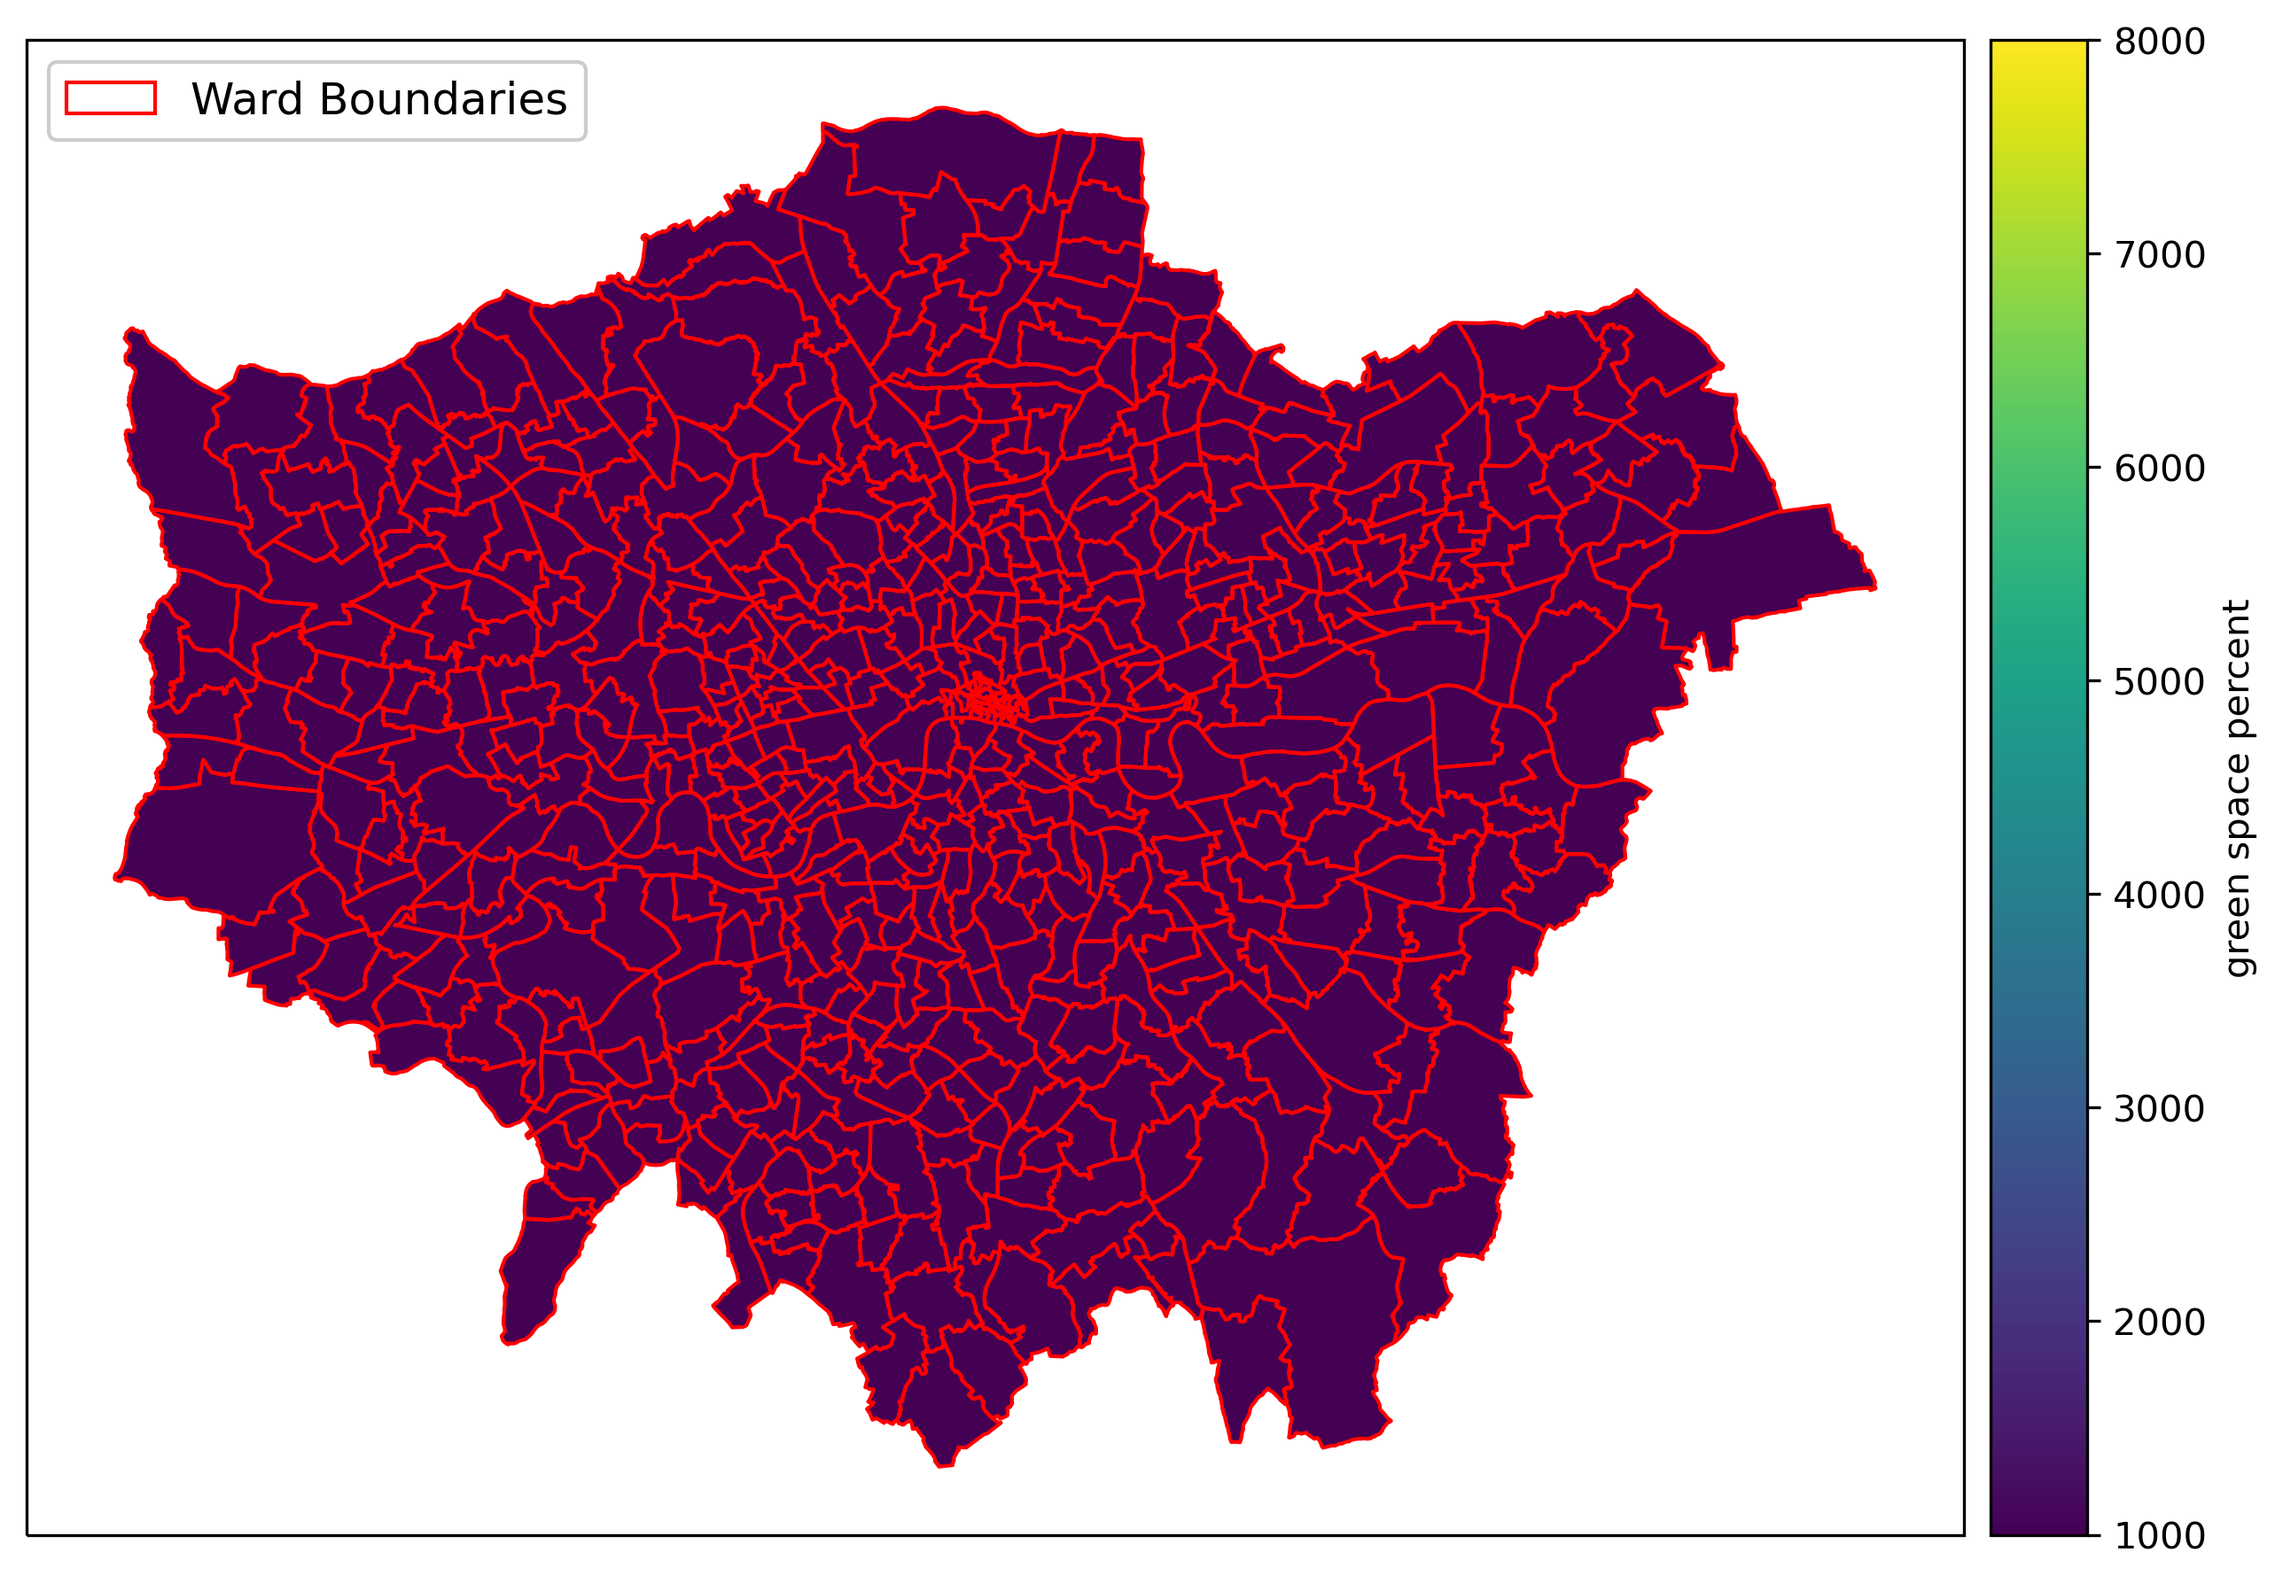
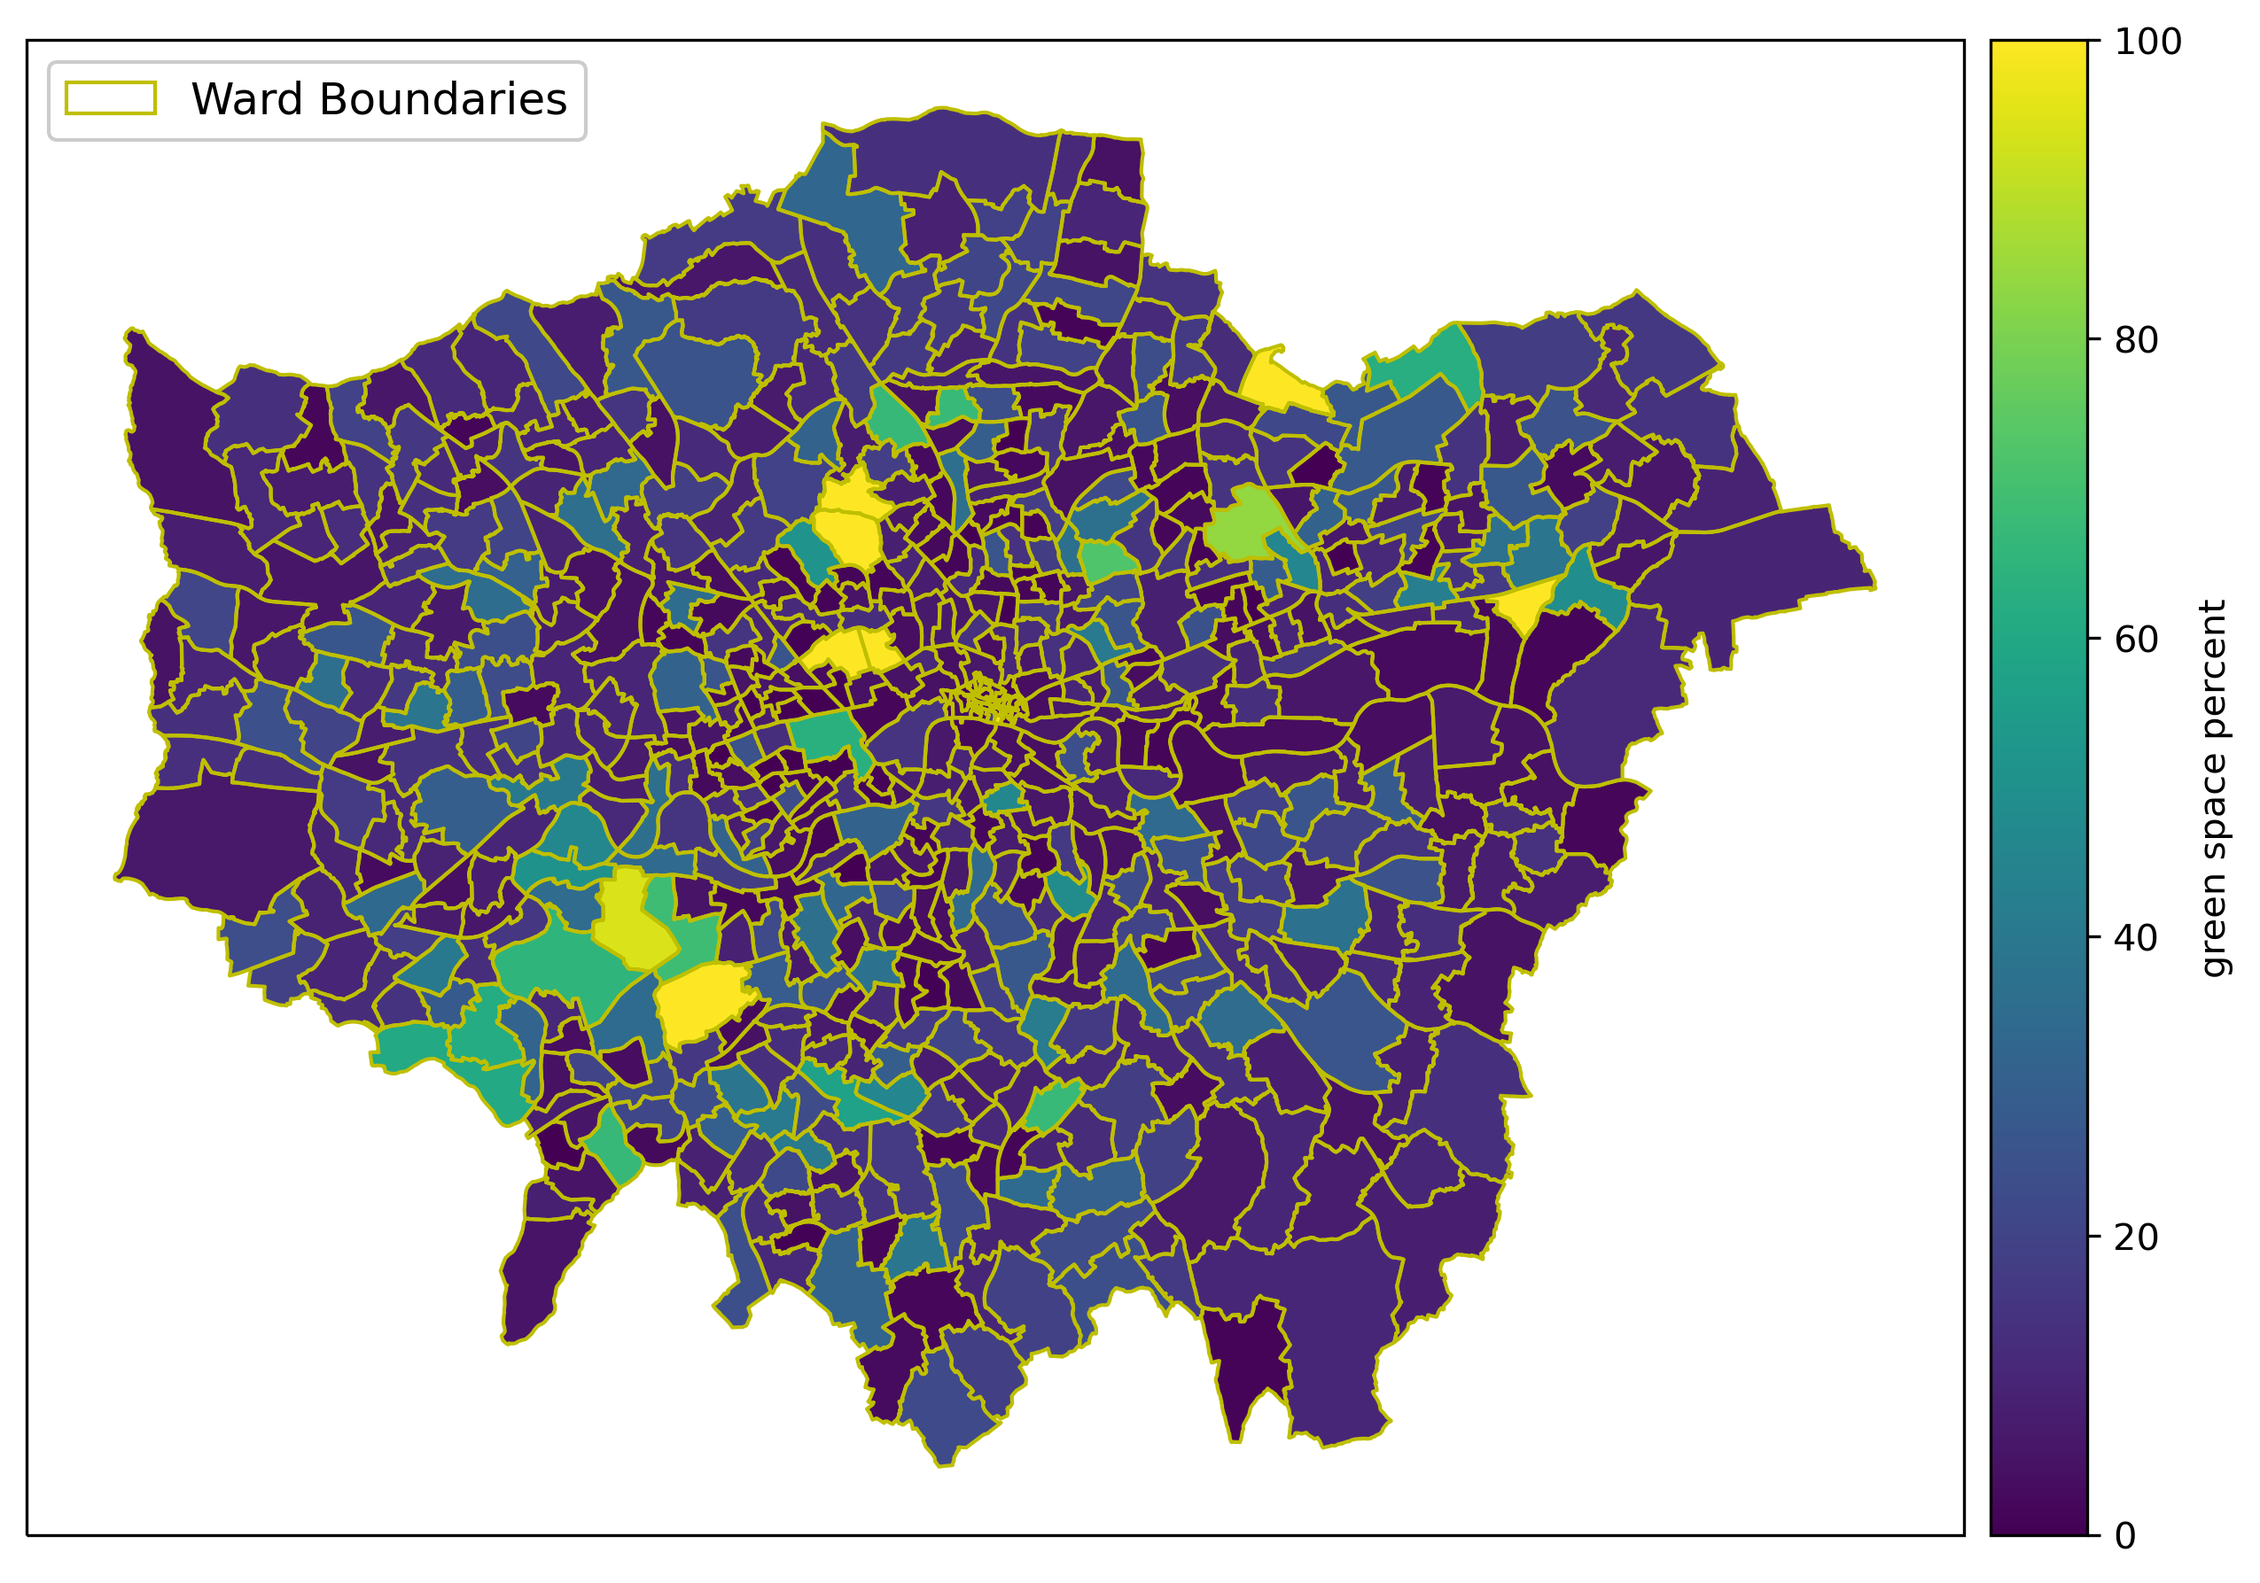
Mapping code working

diff --git a/Project Code.py b/Project Code.py
@@ -60,7 +60,7 @@ joined = wards.set_index('NAME').join(gs_sum.rename('Total GS Area'))
 
 # 3.5 Calculate percentage of green space in each ward
 for i, row in joined.iterrows():
-    joined.loc[i, 'gs_percent'] = (row['Total GS Area'] / row['area_calc'])
+    joined.loc[i, 'gs_percent'] = ((row['Total GS Area'] / row['area_calc']) * 100)
 
 print(joined.head(10))
 
@@ -105,10 +105,10 @@ cax = divider.append_axes("right", size="5%", pad=0.1, axes_class=plt.Axes)
 gs_plot = joined.plot(column='gs_percent', ax=ax, vmin=0, vmax=100, cmap='viridis',
                        legend=True, cax=cax, legend_kwds={'label': 'green space percent'})
 
-ward_outlines = ShapelyFeature(joined['geometry'], myCRS, edgecolor='r', facecolor='none')
+ward_outlines = ShapelyFeature(joined['geometry'], myCRS, edgecolor='y', facecolor='none')
 
 ax.add_feature(ward_outlines)
-county_handles = generate_handles([''], ['none'], edge='r')
+county_handles = generate_handles([''], ['none'], edge='y')
 
 ax.legend(county_handles, ['Ward Boundaries'], fontsize=12, loc='upper left', framealpha=1)
 
